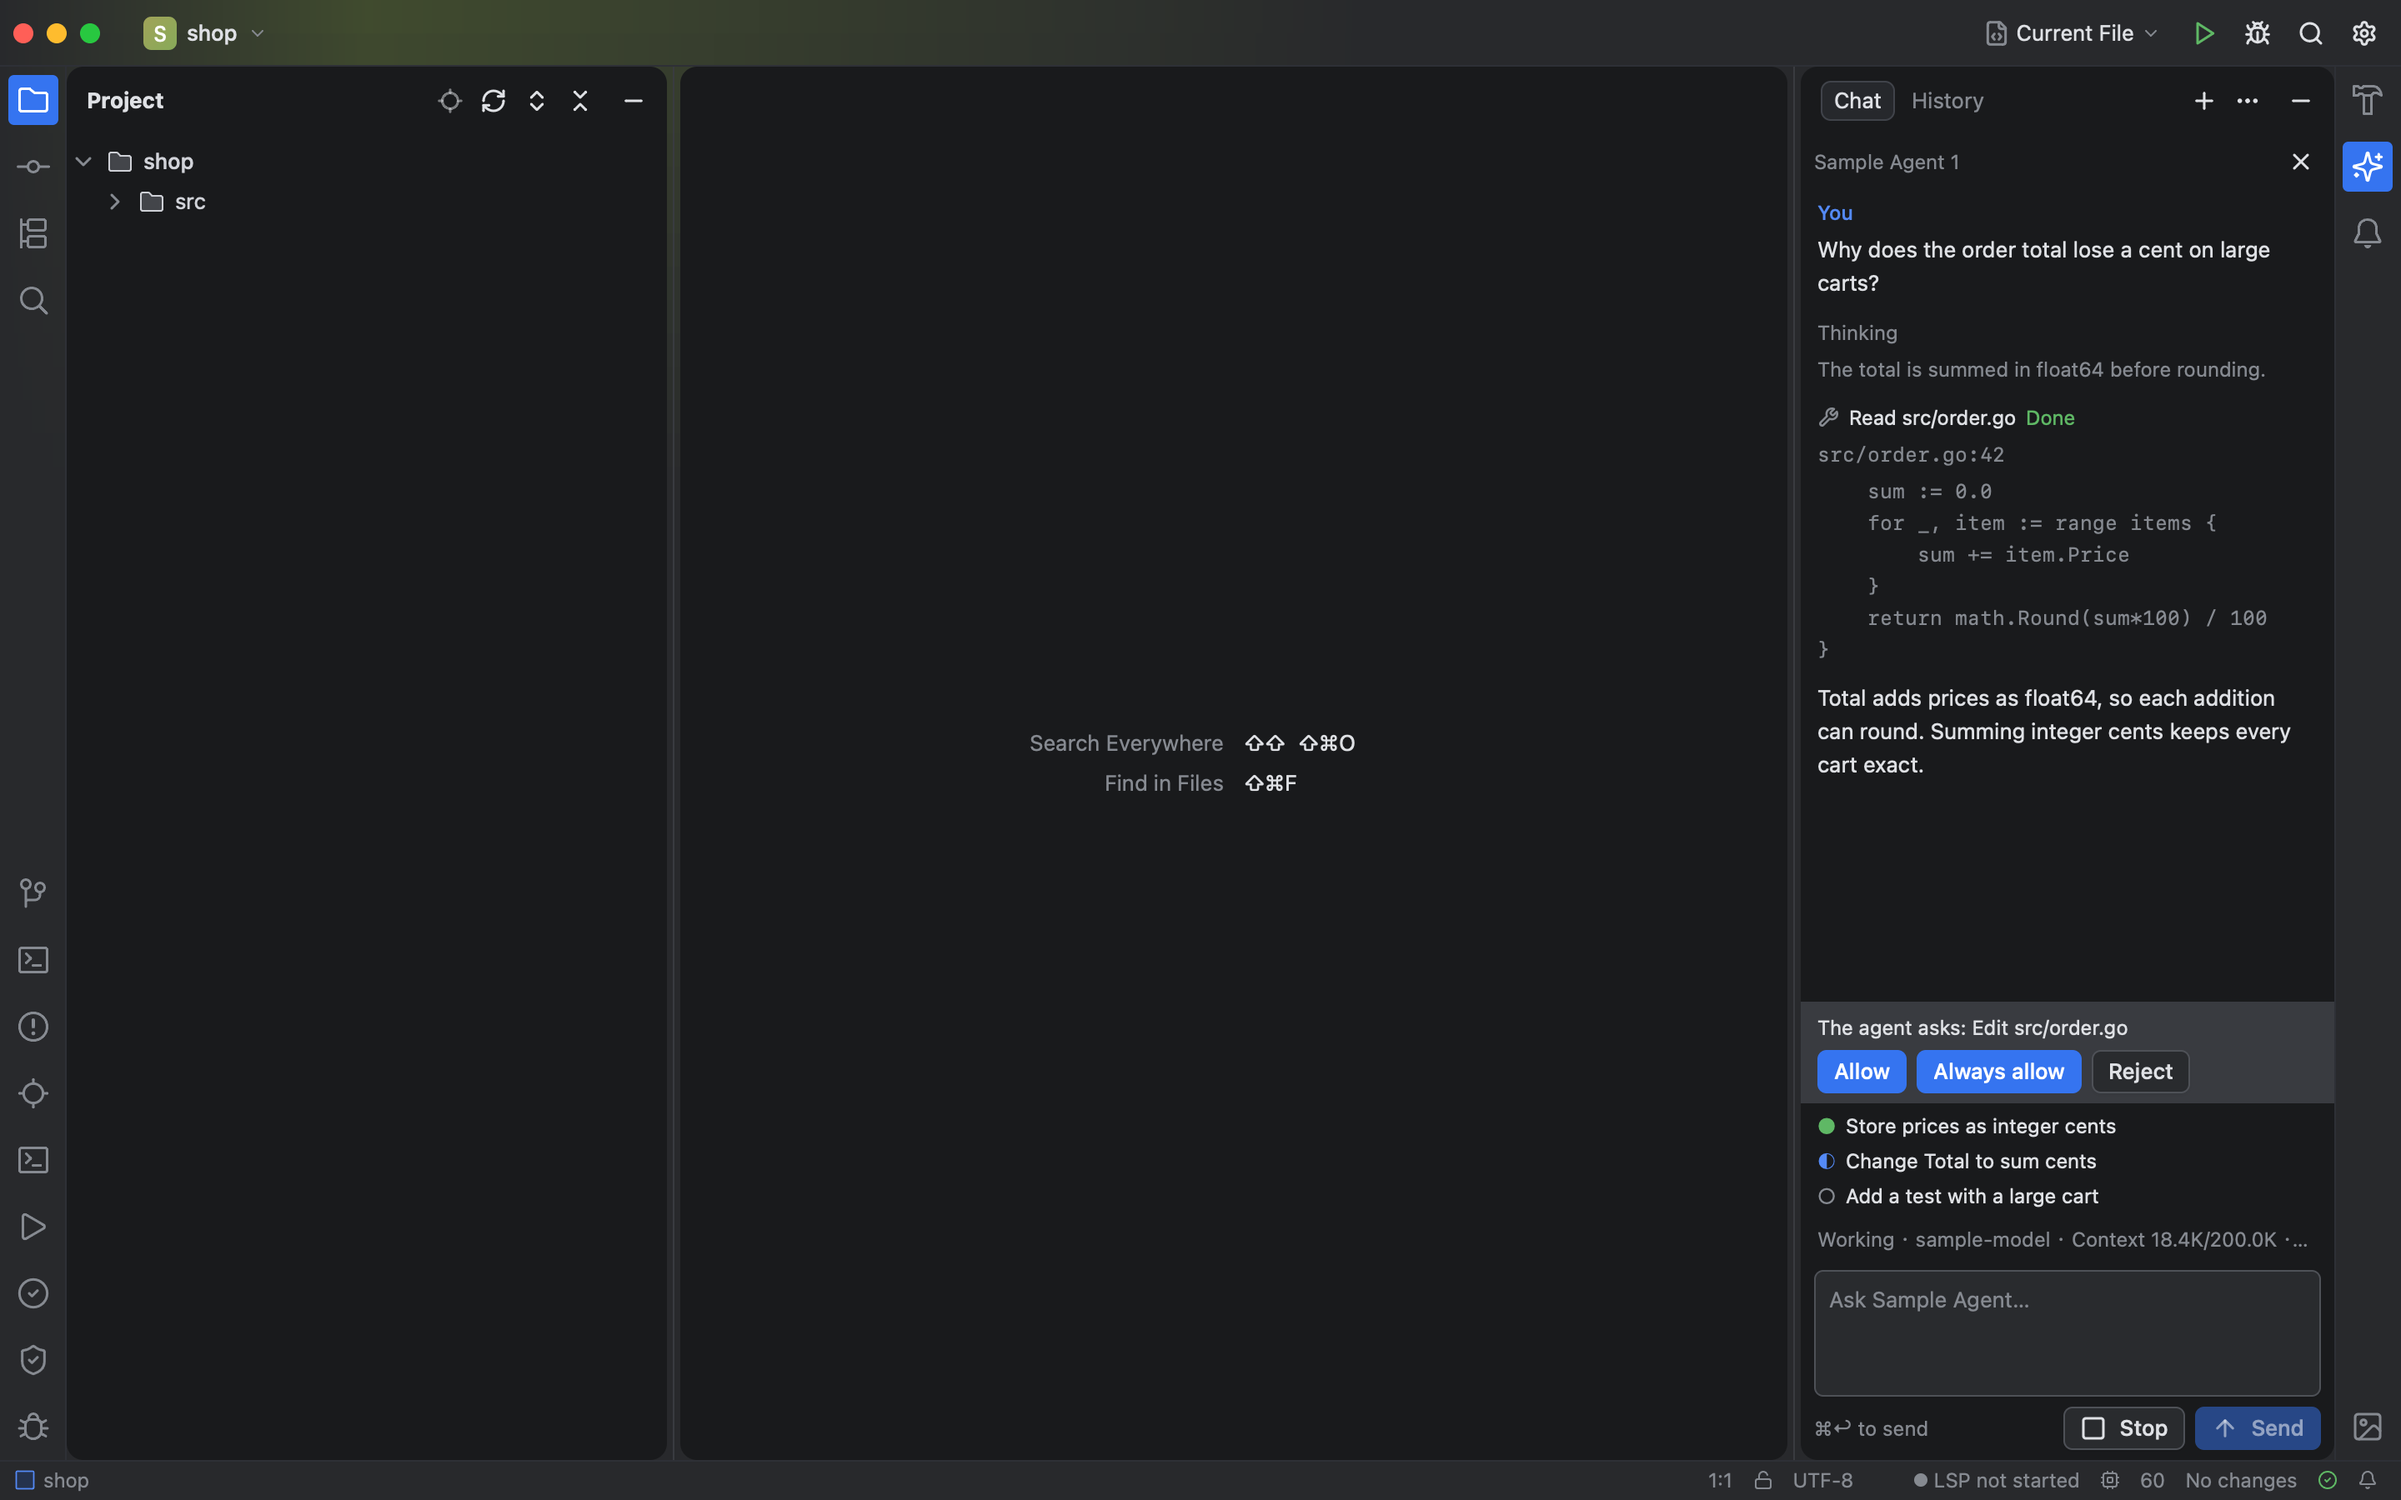
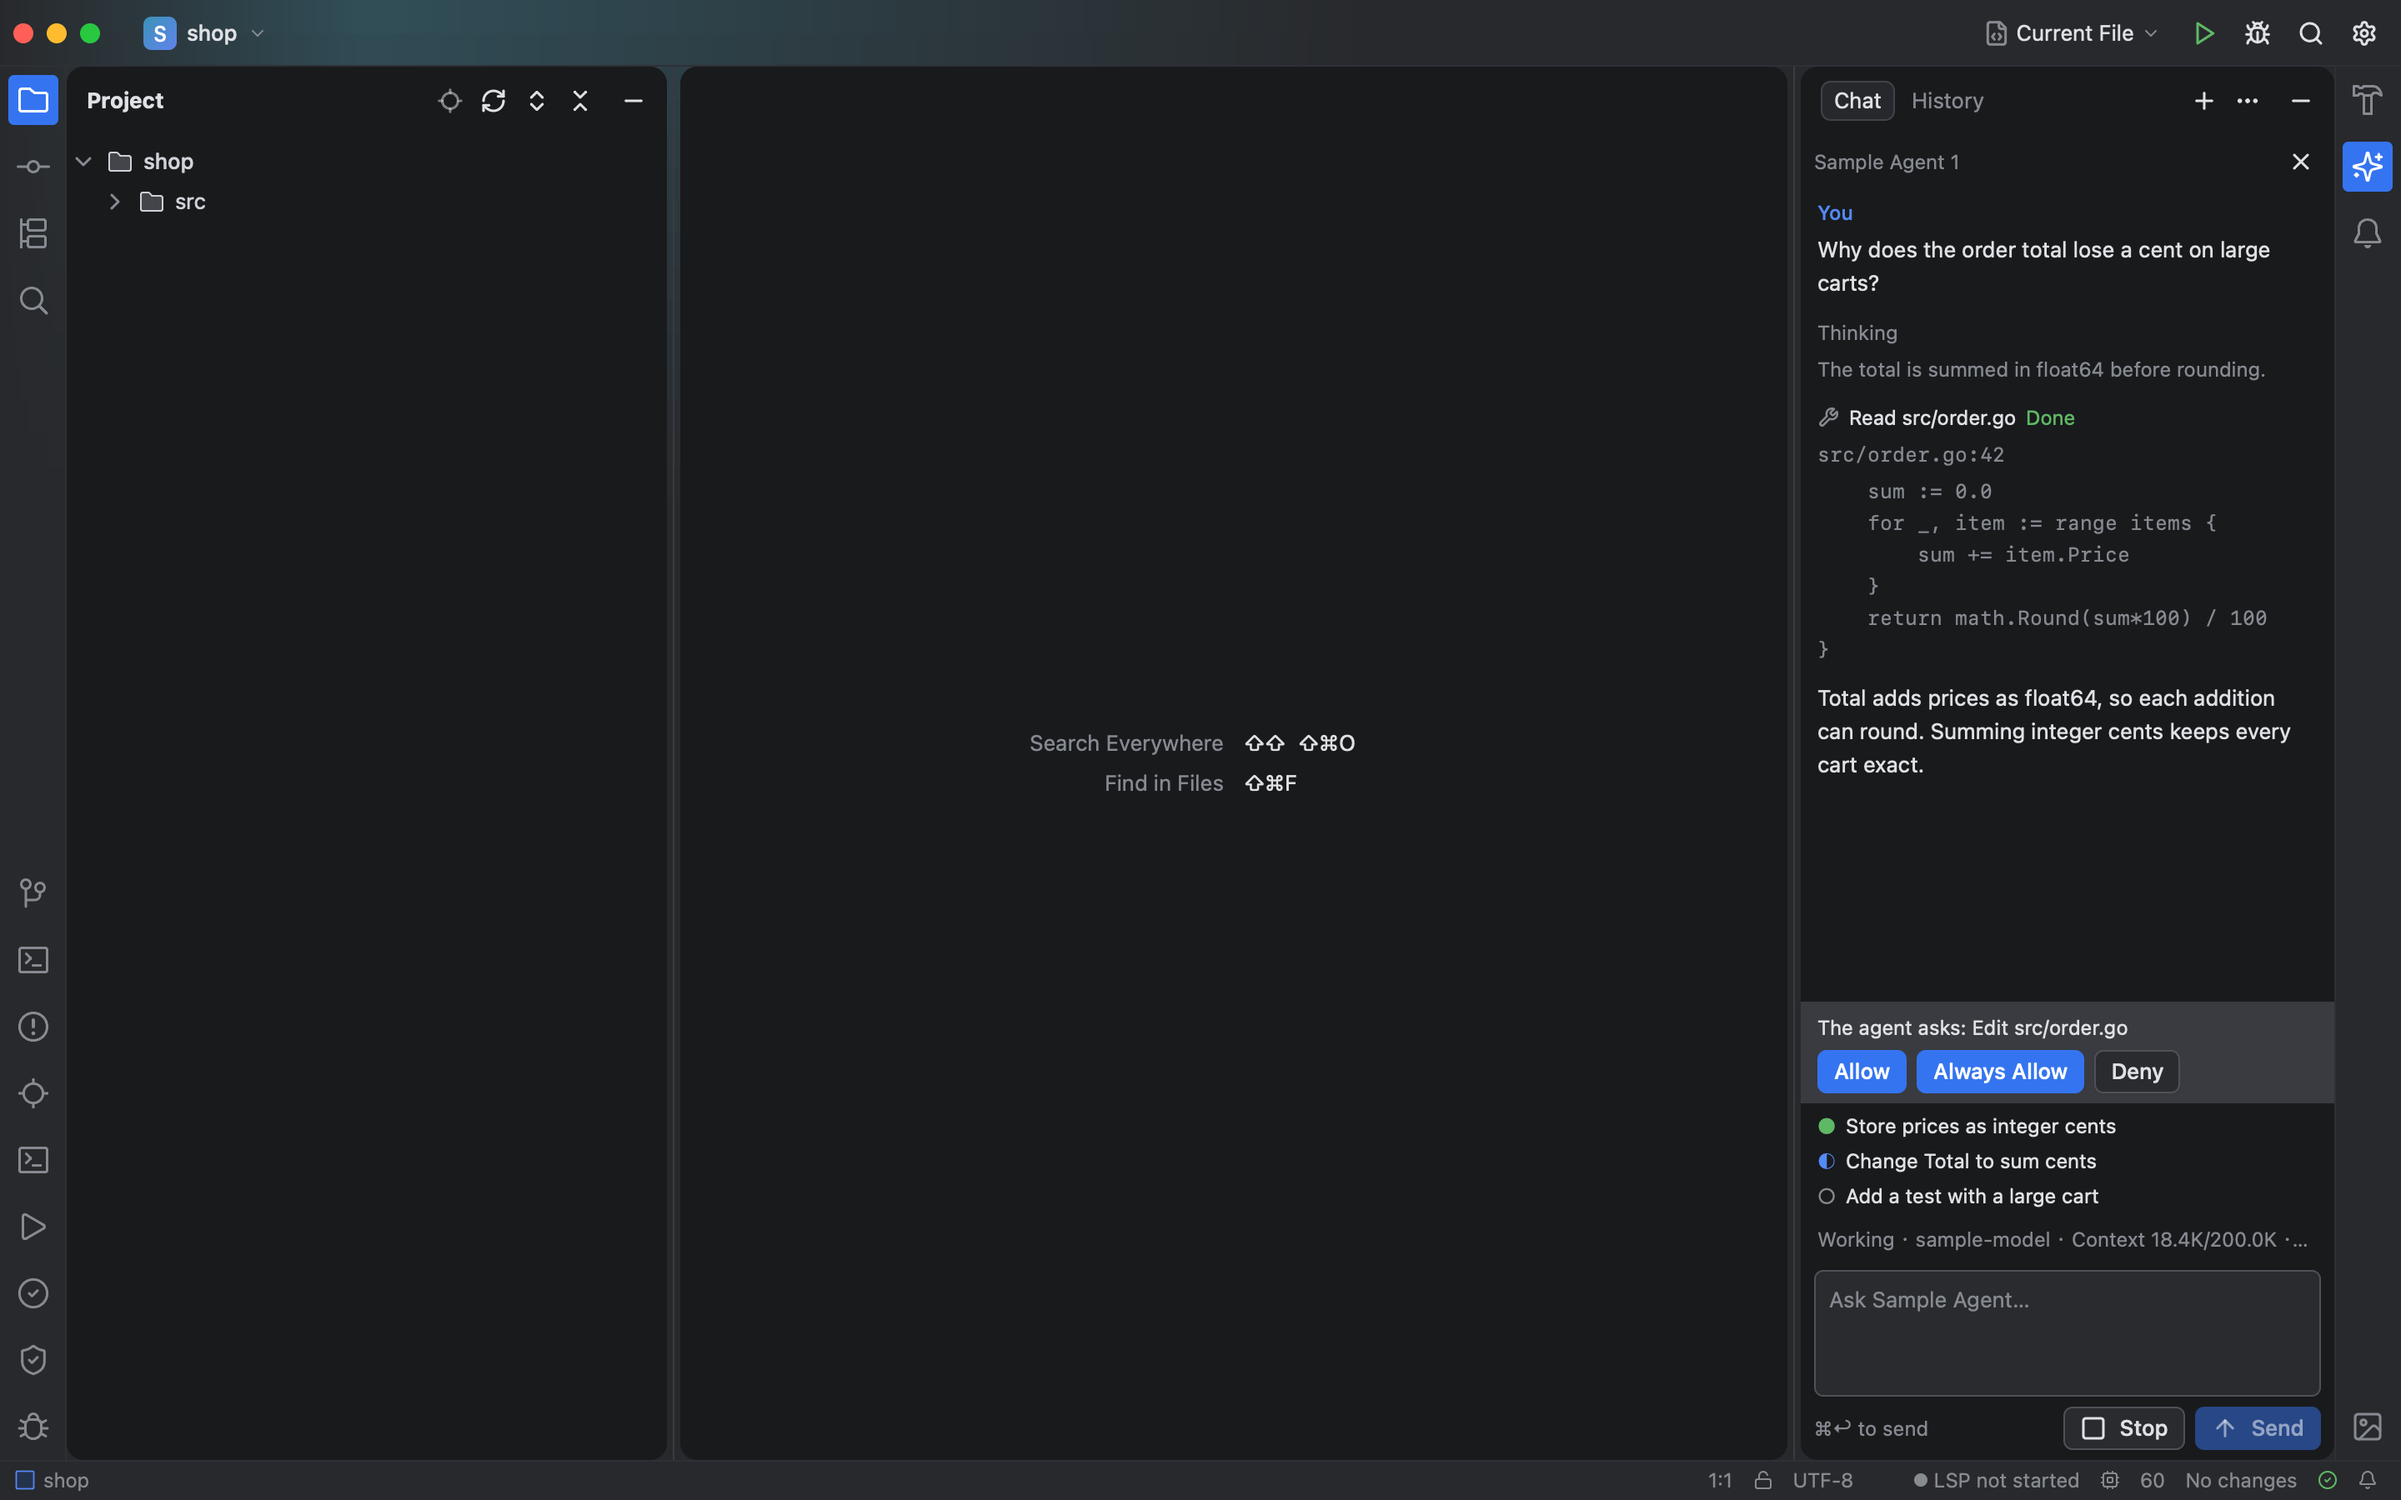
feat(desktop): Agent 权限按钮按选项类别走共享 i18n，插件原文放悬停提示
- allowOnce/allowAlways/rejectOnce/rejectAlways 四种类别用 desktop.agents.option.* 词条显示，契约外的类别仍显示插件给的文字
- 翻译后的按钮把插件原文作为悬停提示，保留“仅本会话”等范围说明
- 截图场景改用契约的 camelCase 类别，重拍对话截图

Changed region(s): [[0.0625, 0.0, 0.3438, 0.0622], [0.8438, 0.6844, 0.875, 0.7156]]

diff --git a/desktop/internal/i18n/shared.generated.go b/desktop/internal/i18n/shared.generated.go
@@ -51,6 +51,10 @@ var sharedCatalogs = map[string]map[string]string{
 		"desktop.agents.noProject":                                 "Open a project to talk to an agent.",
 		"desktop.agents.openMarketplace":                           "Open Marketplace",
 		"desktop.agents.openTerminal":                              "Open {agent} in Terminal",
+		"desktop.agents.option.allowAlways":                        "Always Allow",
+		"desktop.agents.option.allowOnce":                          "Allow",
+		"desktop.agents.option.rejectAlways":                       "Always Deny",
+		"desktop.agents.option.rejectOnce":                         "Deny",
 		"desktop.agents.permission":                                "The agent asks: {title}",
 		"desktop.agents.permissionFailed":                          "Could not answer the request: {reason}",
 		"desktop.agents.pluginRejected":                            "The agents of {plugin} were not loaded: {reason}",
@@ -4330,6 +4334,10 @@ var sharedCatalogs = map[string]map[string]string{
 		"desktop.agents.noProject":                                 "打开项目后才能与 Agent 对话。",
 		"desktop.agents.openMarketplace":                           "打开插件市场",
 		"desktop.agents.openTerminal":                              "在终端中打开 {agent}",
+		"desktop.agents.option.allowAlways":                        "总是允许",
+		"desktop.agents.option.allowOnce":                          "允许",
+		"desktop.agents.option.rejectAlways":                       "总是拒绝",
+		"desktop.agents.option.rejectOnce":                         "拒绝",
 		"desktop.agents.permission":                                "Agent 请求：{title}",
 		"desktop.agents.permissionFailed":                          "无法回复请求：{reason}",
 		"desktop.agents.pluginRejected":                            "未加载 {plugin} 的 Agent：{reason}",

diff --git a/desktop/internal/workbench/agents_view.go b/desktop/internal/workbench/agents_view.go
@@ -448,7 +448,13 @@ func (a *App) agentPending(c ui.C, p *project, conversation *agentConversation) 
 					FontSize(a.theme.Metrics.FontSizeS).Color(a.colors.Text)
 				ui.Flow(k).FillWidth().Gap(6).Children(func() {
 					for j, option := range request.Options {
-						button := ui.Button(k.KeyInt(j), option.Label).Disabled(conversation.answering != "")
+						label := permissionOptionLabel(lang, option)
+						button := ui.Button(k.KeyInt(j), label).Disabled(conversation.answering != "")
+						if label != option.Label {
+							// The agent's own wording says what the choice covers,
+							// such as remembering it only for this session.
+							button = button.Tooltip(option.Label)
+						}
 						if !strings.HasPrefix(option.OptionKind, "allow") {
 							button = button.Outline()
 						}
@@ -461,6 +467,22 @@ func (a *App) agentPending(c ui.C, p *project, conversation *agentConversation) 
 			})
 		}
 	})
+}
+
+// permissionOptionLabel is the button text of a permission option: the translation of its
+// kind (the contract allows these four), or the agent's own label for any other kind.
+func permissionOptionLabel(lang i18n.Language, option agents.PermissionOption) string {
+	switch option.OptionKind {
+	case "allowOnce":
+		return i18n.Shared(lang, "desktop.agents.option.allowOnce")
+	case "allowAlways":
+		return i18n.Shared(lang, "desktop.agents.option.allowAlways")
+	case "rejectOnce":
+		return i18n.Shared(lang, "desktop.agents.option.rejectOnce")
+	case "rejectAlways":
+		return i18n.Shared(lang, "desktop.agents.option.rejectAlways")
+	}
+	return option.Label
 }
 
 // agentPlan declares the agent's latest plan, its first entries.

diff --git a/desktop/internal/workbench/agents_test.go b/desktop/internal/workbench/agents_test.go
@@ -133,6 +133,27 @@ func TestAgentStatusTextShowsStateModelContextTokensAndCost(t *testing.T) {
 	}
 }
 
+func TestPermissionOptionLabelTranslatesKnownKindsAndKeepsTheAgentsOtherwise(t *testing.T) {
+	for _, tc := range []struct {
+		language i18n.Language
+		kind     string
+		want     string
+	}{
+		{i18n.English, "allowOnce", "Allow"},
+		{i18n.English, "allowAlways", "Always Allow"},
+		{i18n.English, "rejectOnce", "Deny"},
+		{i18n.English, "rejectAlways", "Always Deny"},
+		{i18n.Chinese, "allowAlways", "总是允许"},
+		{i18n.Chinese, "rejectOnce", "拒绝"},
+		{i18n.Chinese, "askLater", "Agent wording"},
+	} {
+		option := agents.PermissionOption{ID: "o", Label: "Agent wording", OptionKind: tc.kind}
+		if got := permissionOptionLabel(tc.language, option); got != tc.want {
+			t.Errorf("permissionOptionLabel(%v, %q) = %q, want %q", tc.language, tc.kind, got, tc.want)
+		}
+	}
+}
+
 func TestCompactCount(t *testing.T) {
 	for count, want := range map[uint64]string{0: "0", 9_999: "9999", 10_000: "10.0K", 123_456: "123.5K", 2_500_000: "2.5M"} {
 		if got := compactCount(count); got != want {

diff --git a/desktop/internal/workbench/agents_visual_test.go b/desktop/internal/workbench/agents_visual_test.go
@@ -107,9 +107,9 @@ func sampleConversation(agent agents.CatalogAgent) *agentConversation {
 		{Content: "Add a test with a large cart", Status: "pending"},
 	}})
 	t.Apply(agents.Event{Kind: "permissionRequested", Turn: 1, Permission: "p1", Title: "Edit src/order.go", ToolCallID: "c2", Options: []agents.PermissionOption{
-		{ID: "allow", Label: "Allow", OptionKind: "allow_once"},
-		{ID: "allowAlways", Label: "Always allow", OptionKind: "allow_always"},
-		{ID: "reject", Label: "Reject", OptionKind: "reject_once"},
+		{ID: "allow", Label: "Allow", OptionKind: "allowOnce"},
+		{ID: "allowSession", Label: "Allow for this session", OptionKind: "allowAlways"},
+		{ID: "reject", Label: "Reject", OptionKind: "rejectOnce"},
 	}})
 	cost := 0.42
 	t.Apply(agents.Event{Kind: "usage", ContextUsed: 18_400, ContextWindow: 200_000, Tokens: agents.Tokens{Input: 12_000, Output: 1_800, CacheRead: 4_600}, CostUSD: &cost})
